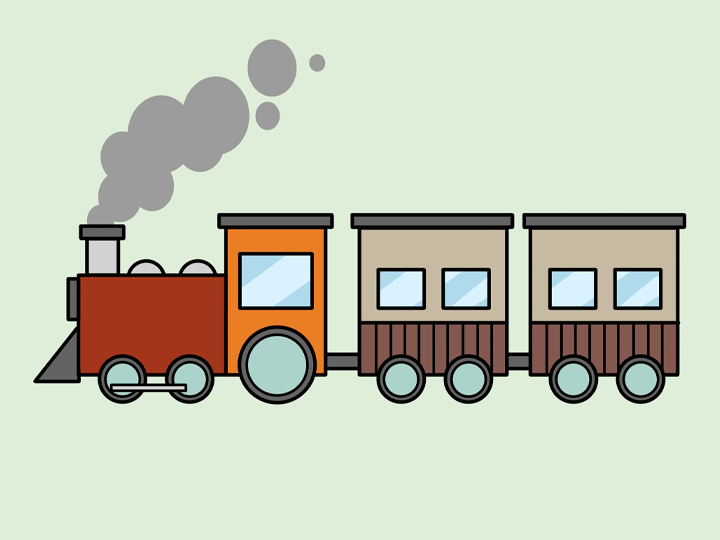
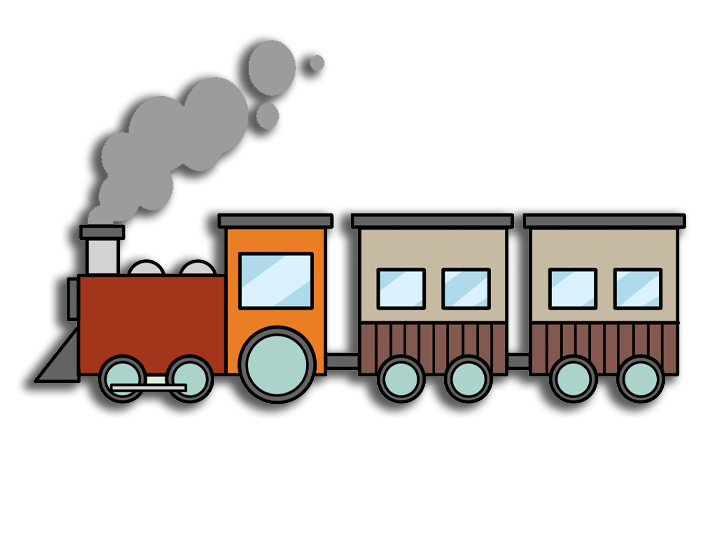
modify ui looking

diff --git a/lib/homePage.dart b/lib/homePage.dart
@@ -74,6 +74,13 @@ class _HomePageState extends State<HomePage> {
                         decoration: BoxDecoration(
                           color: Colors.amber,
                           borderRadius: BorderRadius.circular(60),
+                          boxShadow: [
+                            BoxShadow(
+                              offset: Offset(0, 5),
+                              blurRadius: 5,
+                              color: Colors.black.withOpacity(0.3),
+                            ),
+                          ],
                         ),
                         child: Row(
                           children: [
@@ -94,7 +101,7 @@ class _HomePageState extends State<HomePage> {
                             Expanded(
                               flex: 1,
                               child: Padding(
-                                padding: const EdgeInsets.all(8.0),
+                                padding: const EdgeInsets.all(10.0),
                                 child: Selector<Controller, bool>(
                                   selector: (_, controller) =>
                                       controller.letterDropped,
@@ -112,8 +119,19 @@ class _HomePageState extends State<HomePage> {
                       ),
                     )),
                   ),
+                  const Expanded(
+                    flex: 1,
+                    child: SizedBox(),
+                  ),
                   Expanded(
                     flex: 4,
+                    child: FlyInAnimation(
+                      animate: true,
+                      child: Image.asset('assets/images/$_dropedWord.png'),
+                    ),
+                  ),
+                  Expanded(
+                    flex: 3,
                     child: Row(
                       mainAxisAlignment: MainAxisAlignment.spaceEvenly,
                       children: _dropedWord.characters
@@ -127,14 +145,7 @@ class _HomePageState extends State<HomePage> {
                     ),
                   ),
                   Expanded(
-                    flex: 4,
-                    child: FlyInAnimation(
-                      animate: true,
-                      child: Image.asset('assets/images/$_dropedWord.png'),
-                    ),
-                  ),
-                  Expanded(
-                    flex: 4,
+                    flex: 3,
                     child: Row(
                       mainAxisAlignment: MainAxisAlignment.spaceEvenly,
                       children: _word.characters

diff --git a/lib/messageBox.dart b/lib/messageBox.dart
@@ -26,11 +26,10 @@ class MessageBox extends StatelessWidget {
         borderRadius: BorderRadius.circular(60),
       ),
       backgroundColor: Colors.amber,
-      title: Center(
-        child: Text(
-          title,
-          style: Theme.of(context).textTheme.headline1,
-        ),
+      title: Text(
+        title,
+        textAlign: TextAlign.center,
+        style: Theme.of(context).textTheme.headline1?.copyWith(fontSize: 40),
       ),
       actionsAlignment: MainAxisAlignment.center,
       actions: [
@@ -42,7 +41,6 @@ class MessageBox extends StatelessWidget {
           ),
           onPressed: () {
             if (sessionCompleted) {
-              AudioCache().play("audio/win.mp3");
               Provider.of<Controller>(context, listen: false).reset();
               Navigator.of(context).pushReplacement(
                   MaterialPageRoute(builder: (context) => const HomePage()));

diff --git a/lib/drop.dart b/lib/drop.dart
@@ -40,9 +40,16 @@ class Drop extends StatelessWidget {
               decoration: BoxDecoration(
                 borderRadius: BorderRadius.circular(12),
                 color: Colors.amber,
+                boxShadow: [
+                  BoxShadow(
+                    offset: Offset(0, 1),
+                    blurRadius: 5,
+                    color: Colors.black.withOpacity(0.3),
+                  ),
+                ],
               ),
-              width: 50,
-              height: 50,
+              width: 60,
+              height: 60,
             );
           }
         }),

diff --git a/lib/controller.dart b/lib/controller.dart
@@ -22,6 +22,7 @@ class Controller extends ChangeNotifier {
       percentCompleted = wordsAnswered / allWords.length;
       if (wordsAnswered == allWords.length) {
         sessionCompleted = true;
+        AudioCache().play("audio/win.mp3");
       }
       showDialog(
           barrierDismissible: false,
